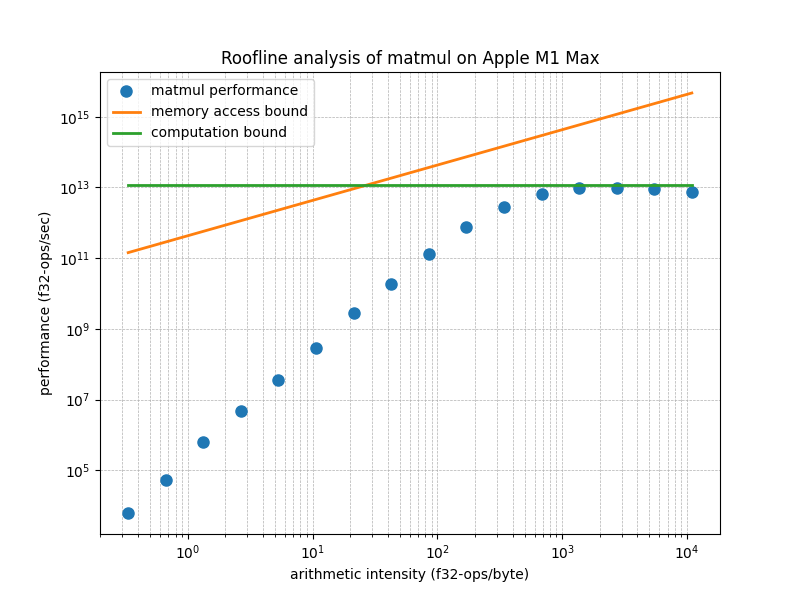
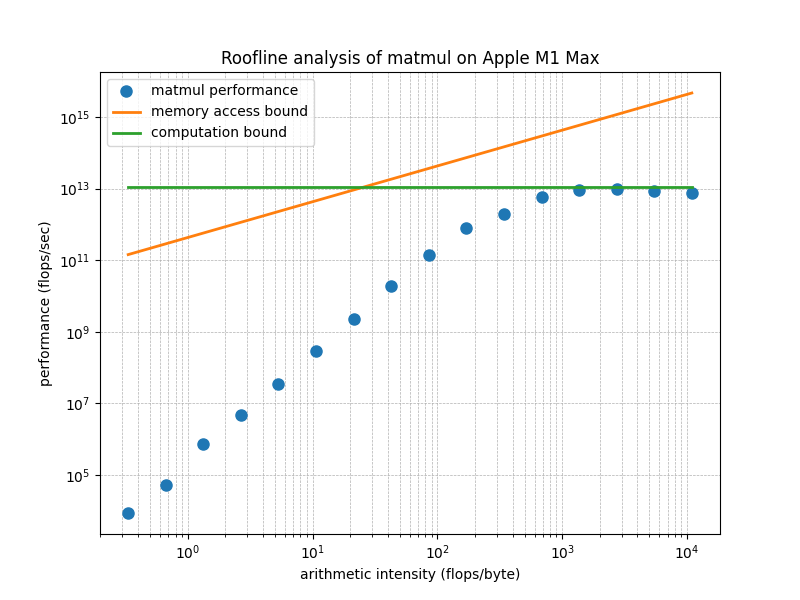
Correct labels

diff --git a/roofline.py b/roofline.py
@@ -64,8 +64,8 @@ plt.figure(figsize=(8, 6))
 plt.loglog(aint, perf, "o", markersize=8, label="matmul performance")
 plt.loglog(aint, diag, "-", linewidth=2, label="memory access bound")
 plt.loglog(aint, roof, "-", linewidth=2, label="computation bound")
-plt.xlabel("arithmetic intensity (f32-ops/byte)")
-plt.ylabel("performance (f32-ops/sec)")
+plt.xlabel("arithmetic intensity (flops/byte)")
+plt.ylabel("performance (flops/sec)")
 plt.title(f"Roofline analysis of matmul on {chip}")
 plt.legend()
 plt.grid(True, which="both", ls="--", linewidth=0.5)

diff --git a/roofline.md b/roofline.md
@@ -153,8 +153,8 @@ plt.figure(figsize=(8, 6))
 plt.loglog(aint, perf, "o", markersize=8, label="matmul performance")
 plt.loglog(aint, diag, "-", linewidth=2, label="memory access bound")
 plt.loglog(aint, roof, "-", linewidth=2, label="computation bound")
-plt.xlabel("arithmetic intensity (f32-ops/byte)")
-plt.ylabel("performance (f32-ops/sec)")
+plt.xlabel("arithmetic intensity (flops/byte)")
+plt.ylabel("performance (flops/sec)")
 plt.title(f"Roofline analysis of matmul on {chip}")
 plt.legend()
 plt.grid(True, which="both", ls="--", linewidth=0.5)
